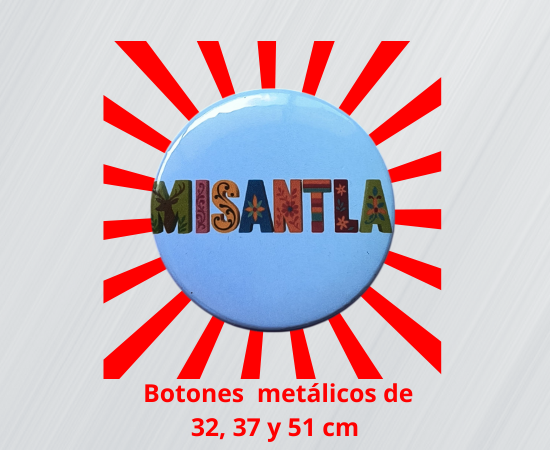
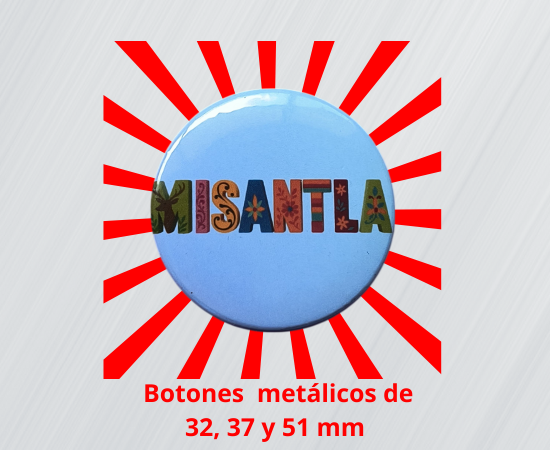
ok

Changed region(s): [[0.34, 0.9022, 0.68, 0.9956]]

diff --git a/Merchandinsing.html b/Merchandinsing.html
@@ -73,7 +73,7 @@
                     <div class="collapse navbar-collapse bg-transparent" id="navbarCollapse">
                         <div class="navbar-nav ms-auto mx-xl-auto p-0">
                             <a href="index.html" class="nav-item nav-link active text-secondary">Inicio</a>
-                            <a href="Nosotros.html" class="nav-item nav-link">Nosotros</a>
+                            <a href="nosotros.html" class="nav-item nav-link">Nosotros</a>
                             <a href="Servicios.html" class="nav-item nav-link">Servicios</a>
                             <a href="Productos.html" class="nav-item nav-link">Productos</a>
                             <!--div class="nav-item dropdown">
@@ -87,7 +87,7 @@
                                     <a href="404.html" class="dropdown-item">404 Page</a>
                                 </div>
                             </div-->
-                            <a href="Contacto.html" class="nav-item nav-link">Contacto</a>
+                            <a href="contacto.html" class="nav-item nav-link">Contacto</a>
                         </div>
                     </div>
                     <div class="d-none d-xl-flex flex-shirink-0">
@@ -119,7 +119,7 @@
                 <h1 class="display-2 text-white mb-4 animated slideInDown">Merchandinsing</h1>
                 <nav aria-label="breadcrumb animated slideInDown">
                     <ol class="breadcrumb justify-content-center mb-0">
-                        <li class="breadcrumb-item"><a href="Index.html">Inicio</a></li>
+                        <li class="breadcrumb-item"><a href="index.html">Inicio</a></li>
                         <li class="breadcrumb-item"><a href="Productos.html">Productos</a></li>
                         <li class="breadcrumb-item"><a href="#">Merchandinsing</a></li>
                         <!--li class="breadcrumb-item" aria-current="page"></li-->
@@ -365,7 +365,7 @@
                                 <div class="project-content">
                                     <a  href="#" class="text-center">
                                         <h4 class="text-secondary">Boton metálico</h4>
-                                        <p class="m-0 text-white">32, 37 y 51 cm</p>
+                                        <p class="m-0 text-white">32, 37 y 51 mm</p>
                                     </a>
                                 </div>
                             </div>

diff --git a/DiseñoGrafico.html b/DiseñoGrafico.html
@@ -73,7 +73,7 @@
                     <div class="collapse navbar-collapse bg-transparent" id="navbarCollapse">
                         <div class="navbar-nav ms-auto mx-xl-auto p-0">
                             <a href="index.html" class="nav-item nav-link active text-secondary">Inicio</a>
-                            <a href="Nosotros.html" class="nav-item nav-link">Nosotros</a>
+                            <a href="nosotros.html" class="nav-item nav-link">Nosotros</a>
                             <a href="Servicios.html" class="nav-item nav-link">Servicios</a>
                             <a href="Productos.html" class="nav-item nav-link">Productos</a>
                             <!--div class="nav-item dropdown">
@@ -87,7 +87,7 @@
                                     <a href="404.html" class="dropdown-item">404 Page</a>
                                 </div>
                             </div-->
-                            <a href="Contacto.html" class="nav-item nav-link">Contacto</a>
+                            <a href="contacto.html" class="nav-item nav-link">Contacto</a>
                         </div>
                     </div>
                     <div class="d-none d-xl-flex flex-shirink-0">
@@ -119,7 +119,7 @@
                         <h1 class="display-2 text-white mb-4 animated slideInDown">Diseño Gráfico</h1>
                         <nav aria-label="breadcrumb animated slideInDown">
                             <ol class="breadcrumb justify-content-center mb-0">
-                                <li class="breadcrumb-item"><a href="Index.html">Inicio</a></li>
+                                <li class="breadcrumb-item"><a href="index.html">Inicio</a></li>
                                 <li class="breadcrumb-item"><a href="Servicios.html">Servicios</a></li>
                                 <li class="breadcrumb-item"><a href="#">Diseño Gráfico</a></li>
                                 <!--li class="breadcrumb-item" aria-current="page"></li-->

diff --git a/IdentidadCorporativa.html b/IdentidadCorporativa.html
@@ -73,7 +73,7 @@
                     <div class="collapse navbar-collapse bg-transparent" id="navbarCollapse">
                         <div class="navbar-nav ms-auto mx-xl-auto p-0">
                             <a href="index.html" class="nav-item nav-link active text-secondary">Inicio</a>
-                            <a href="Nosotros.html" class="nav-item nav-link">Nosotros</a>
+                            <a href="nosotros.html" class="nav-item nav-link">Nosotros</a>
                             <a href="Servicios.html" class="nav-item nav-link">Servicios</a>
                             <a href="Productos.html" class="nav-item nav-link">Productos</a>
                             <!--div class="nav-item dropdown">
@@ -87,7 +87,7 @@
                                     <a href="404.html" class="dropdown-item">404 Page</a>
                                 </div>
                             </div-->
-                            <a href="Contacto.html" class="nav-item nav-link">Contacto</a>
+                            <a href="contacto.html" class="nav-item nav-link">Contacto</a>
                         </div>
                     </div>
                     <div class="d-none d-xl-flex flex-shirink-0">
@@ -119,7 +119,7 @@
                 <h1 class="display-2 text-white mb-4 animated slideInDown">Identidad Corporativa</h1>
                 <nav aria-label="breadcrumb animated slideInDown">
                     <ol class="breadcrumb justify-content-center mb-0">
-                        <li class="breadcrumb-item"><a href="Index.html">Inicio</a></li>
+                        <li class="breadcrumb-item"><a href="index.html">Inicio</a></li>
                         <li class="breadcrumb-item"><a href="Servicios.html">Servicios</a></li>
                         <li class="breadcrumb-item"><a href="#">Identidad Corporativa</a></li>
                         <!--li class="breadcrumb-item" aria-current="page">Identidad Corporativa</li-->

diff --git a/SocialMedia.html b/SocialMedia.html
@@ -73,7 +73,7 @@
                     <div class="collapse navbar-collapse bg-transparent" id="navbarCollapse">
                         <div class="navbar-nav ms-auto mx-xl-auto p-0">
                             <a href="index.html" class="nav-item nav-link active text-secondary">Inicio</a>
-                            <a href="Nosotros.html" class="nav-item nav-link">Nosotros</a>
+                            <a href="nosotros.html" class="nav-item nav-link">Nosotros</a>
                             <a href="Servicios.html" class="nav-item nav-link">Servicios</a>
                             <a href="Productos.html" class="nav-item nav-link">Productos</a>
                             <!--div class="nav-item dropdown">
@@ -87,7 +87,7 @@
                                     <a href="404.html" class="dropdown-item">404 Page</a>
                                 </div>
                             </div-->
-                            <a href="Contacto.html" class="nav-item nav-link">Contacto</a>
+                            <a href="contacto.html" class="nav-item nav-link">Contacto</a>
                         </div>
                     </div>
                     <div class="d-none d-xl-flex flex-shirink-0">
@@ -119,7 +119,7 @@
                 <h1 class="display-2 text-white mb-4 animated slideInDown">Gestión de Redes Sociales</h1>
                 <nav aria-label="breadcrumb animated slideInDown">
                     <ol class="breadcrumb justify-content-center mb-0">
-                        <li class="breadcrumb-item"><a href="Index.html">Inicio</a></li>
+                        <li class="breadcrumb-item"><a href="index.html">Inicio</a></li>
                         <li class="breadcrumb-item"><a href="Servicios.html">Servicios</a></li>
                         <li class="breadcrumb-item"><a href="#">Gestión de Redes Sociales</a></li>
                         <!--li class="breadcrumb-item" aria-current="page"></li-->

diff --git a/CreaciónContenido.html b/CreaciónContenido.html
@@ -73,7 +73,7 @@
                     <div class="collapse navbar-collapse bg-transparent" id="navbarCollapse">
                         <div class="navbar-nav ms-auto mx-xl-auto p-0">
                             <a href="index.html" class="nav-item nav-link active text-secondary">Inicio</a>
-                            <a href="Nosotros.html" class="nav-item nav-link">Nosotros</a>
+                            <a href="nosotros.html" class="nav-item nav-link">Nosotros</a>
                             <a href="Servicios.html" class="nav-item nav-link">Servicios</a>
                             <a href="Productos.html" class="nav-item nav-link">Productos</a>
                             <!--div class="nav-item dropdown">
@@ -87,7 +87,7 @@
                                     <a href="404.html" class="dropdown-item">404 Page</a>
                                 </div>
                             </div-->
-                            <a href="Contacto.html" class="nav-item nav-link">Contacto</a>
+                            <a href="contacto.html" class="nav-item nav-link">Contacto</a>
                         </div>
                     </div>
                     <div class="d-none d-xl-flex flex-shirink-0">
@@ -119,7 +119,7 @@
                 <h1 class="display-2 text-white mb-4 animated slideInDown">Creación de Contenido</h1>
                 <nav aria-label="breadcrumb animated slideInDown">
                     <ol class="breadcrumb justify-content-center mb-0">
-                        <li class="breadcrumb-item"><a href="Index.html">Inicio</a></li>
+                        <li class="breadcrumb-item"><a href="index.html">Inicio</a></li>
                         <li class="breadcrumb-item"><a href="Servicios.html">Servicios</a></li>
                         <li class="breadcrumb-item"><a href="#">Creación de Contenido</a></li>
                         <!--li class="breadcrumb-item" aria-current="page"></li-->

diff --git a/Etiquetado.html b/Etiquetado.html
@@ -73,7 +73,7 @@
                     <div class="collapse navbar-collapse bg-transparent" id="navbarCollapse">
                         <div class="navbar-nav ms-auto mx-xl-auto p-0">
                             <a href="index.html" class="nav-item nav-link active text-secondary">Inicio</a>
-                            <a href="Nosotros.html" class="nav-item nav-link">Nosotros</a>
+                            <a href="nosotros.html" class="nav-item nav-link">Nosotros</a>
                             <a href="Servicios.html" class="nav-item nav-link">Servicios</a>
                             <a href="Productos.html" class="nav-item nav-link">Productos</a>
                             <!--div class="nav-item dropdown">
@@ -87,7 +87,7 @@
                                     <a href="404.html" class="dropdown-item">404 Page</a>
                                 </div>
                             </div-->
-                            <a href="Contacto.html" class="nav-item nav-link">Contacto</a>
+                            <a href="contacto.html" class="nav-item nav-link">Contacto</a>
                         </div>
                     </div>
                     <div class="d-none d-xl-flex flex-shirink-0">
@@ -119,7 +119,7 @@
                 <h1 class="display-2 text-white mb-4 animated slideInDown">Etiquetas & Stickers</h1>
                 <nav aria-label="breadcrumb animated slideInDown">
                     <ol class="breadcrumb justify-content-center mb-0">
-                        <li class="breadcrumb-item"><a href="Index.html">Inicio</a></li>
+                        <li class="breadcrumb-item"><a href="index.html">Inicio</a></li>
                         <li class="breadcrumb-item"><a href="Productos.html">Productos</a></li>
                         <li class="breadcrumb-item"><a href="#">Etiquetas & Stickers</a></li>
                         <!--li class="breadcrumb-item" aria-current="page"></li-->

diff --git a/PapeleriaEjecutiva.html b/PapeleriaEjecutiva.html
@@ -73,7 +73,7 @@
                     <div class="collapse navbar-collapse bg-transparent" id="navbarCollapse">
                         <div class="navbar-nav ms-auto mx-xl-auto p-0">
                             <a href="index.html" class="nav-item nav-link active text-secondary">Inicio</a>
-                            <a href="Nosotros.html" class="nav-item nav-link">Nosotros</a>
+                            <a href="nosotros.html" class="nav-item nav-link">Nosotros</a>
                             <a href="Servicios.html" class="nav-item nav-link">Servicios</a>
                             <a href="Productos.html" class="nav-item nav-link">Productos</a>
                             <!--div class="nav-item dropdown">
@@ -87,7 +87,7 @@
                                     <a href="404.html" class="dropdown-item">404 Page</a>
                                 </div>
                             </div-->
-                            <a href="Contacto.html" class="nav-item nav-link">Contacto</a>
+                            <a href="contacto.html" class="nav-item nav-link">Contacto</a>
                         </div>
                     </div>
                     <div class="d-none d-xl-flex flex-shirink-0">
@@ -119,7 +119,7 @@
                 <h1 class="display-2 text-white mb-4 animated slideInDown">Papelería Ejecutiva</h1>
                 <nav aria-label="breadcrumb animated slideInDown">
                     <ol class="breadcrumb justify-content-center mb-0">
-                        <li class="breadcrumb-item"><a href="Index.html">Inicio</a></li>
+                        <li class="breadcrumb-item"><a href="index.html">Inicio</a></li>
                         <li class="breadcrumb-item"><a href="Productos.html">Productos</a></li>
                         <li class="breadcrumb-item"><a href="#">Papelería Ejecutiva</a></li>
                         <!--li class="breadcrumb-item" aria-current="page"></li-->

diff --git a/DiseñoWeb.html b/DiseñoWeb.html
@@ -73,7 +73,7 @@
                     <div class="collapse navbar-collapse bg-transparent" id="navbarCollapse">
                         <div class="navbar-nav ms-auto mx-xl-auto p-0">
                             <a href="index.html" class="nav-item nav-link active text-secondary">Inicio</a>
-                            <a href="Nosotros.html" class="nav-item nav-link">Nosotros</a>
+                            <a href="nosotros.html" class="nav-item nav-link">Nosotros</a>
                             <a href="Servicios.html" class="nav-item nav-link">Servicios</a>
                             <a href="Productos.html" class="nav-item nav-link">Productos</a>
                             <!--div class="nav-item dropdown">
@@ -87,7 +87,7 @@
                                     <a href="404.html" class="dropdown-item">404 Page</a>
                                 </div>
                             </div-->
-                            <a href="Contacto.html" class="nav-item nav-link">Contacto</a>
+                            <a href="contacto.html" class="nav-item nav-link">Contacto</a>
                         </div>
                     </div>
                     <div class="d-none d-xl-flex flex-shirink-0">
@@ -119,7 +119,7 @@
                 <h1 class="display-2 text-white mb-4 animated slideInDown">Diseño Web</h1>
                 <nav aria-label="breadcrumb animated slideInDown">
                     <ol class="breadcrumb justify-content-center mb-0">
-                        <li class="breadcrumb-item"><a href="Index.html">Inicio</a></li>
+                        <li class="breadcrumb-item"><a href="index.html">Inicio</a></li>
                         <li class="breadcrumb-item"><a href="Servicios.html">Servicios</a></li>
                         <li class="breadcrumb-item"><a href="#">Diseño Web</a></li>
                         <!--li class="breadcrumb-item" aria-current="page"></a></li-->

diff --git a/GranFormato.html b/GranFormato.html
@@ -73,7 +73,7 @@
                     <div class="collapse navbar-collapse bg-transparent" id="navbarCollapse">
                         <div class="navbar-nav ms-auto mx-xl-auto p-0">
                             <a href="index.html" class="nav-item nav-link active text-secondary">Inicio</a>
-                            <a href="Nosotros.html" class="nav-item nav-link">Nosotros</a>
+                            <a href="nosotros.html" class="nav-item nav-link">Nosotros</a>
                             <a href="Servicios.html" class="nav-item nav-link">Servicios</a>
                             <a href="Productos.html" class="nav-item nav-link">Productos</a>
                             <!--div class="nav-item dropdown">
@@ -87,7 +87,7 @@
                                     <a href="404.html" class="dropdown-item">404 Page</a>
                                 </div>
                             </div-->
-                            <a href="Contacto.html" class="nav-item nav-link">Contacto</a>
+                            <a href="contacto.html" class="nav-item nav-link">Contacto</a>
                         </div>
                     </div>
                     <div class="d-none d-xl-flex flex-shirink-0">
@@ -119,7 +119,7 @@
                 <h1 class="display-2 text-white mb-4 animated slideInDown">Gran Formato</h1>
                 <nav aria-label="breadcrumb animated slideInDown">
                     <ol class="breadcrumb justify-content-center mb-0">
-                        <li class="breadcrumb-item"><a href="Index.html">Inicio</a></li>
+                        <li class="breadcrumb-item"><a href="index.html">Inicio</a></li>
                         <li class="breadcrumb-item"><a href="Productos.html">Productos</a></li>
                         <li class="breadcrumb-item"><a href="#">Gran Formato</a></li>
                         <!--li class="breadcrumb-item" aria-current="page"></li-->

diff --git a/nosotros.html b/nosotros.html
@@ -73,7 +73,7 @@
                     <div class="collapse navbar-collapse bg-transparent" id="navbarCollapse">
                         <div class="navbar-nav ms-auto mx-xl-auto p-0">
                             <a href="index.html" class="nav-item nav-link">Inicio</a>
-                            <a href="Nosotros.html" class="nav-item nav-link active">Nosotros</a>
+                            <a href="nosotros.html" class="nav-item nav-link active">Nosotros</a>
                             <a href="Servicios.html" class="nav-item nav-link">Servicios</a>
                             <a href="Productos.html" class="nav-item nav-link">Productos</a>
                             <!--div class="nav-item dropdown">

diff --git a/Productos.html b/Productos.html
@@ -73,7 +73,7 @@
                     <div class="collapse navbar-collapse bg-transparent" id="navbarCollapse">
                         <div class="navbar-nav ms-auto mx-xl-auto p-0">
                             <a href="index.html" class="nav-item nav-link">Inicio</a>
-                            <a href="Nosotros.html" class="nav-item nav-link">Nosotros</a>
+                            <a href="nosotros.html" class="nav-item nav-link">Nosotros</a>
                             <a href="Servicios.html" class="nav-item nav-link">Servicios</a>
                             <a href="Productos.html" class="nav-item nav-link active">Productos</a>
                             <!--div class="nav-item dropdown">

diff --git a/Servicios.html b/Servicios.html
@@ -73,7 +73,7 @@
                     <div class="collapse navbar-collapse bg-transparent" id="navbarCollapse">
                         <div class="navbar-nav ms-auto mx-xl-auto p-0">
                             <a href="index.html" class="nav-item nav-link">Inicio</a>
-                            <a href="Nosotros.html" class="nav-item nav-link">Nosotros</a>
+                            <a href="nosotros.html" class="nav-item nav-link">Nosotros</a>
                             <a href="Servicios.html" class="nav-item nav-link active">Servicios</a>
                             <a href="Productos.html" class="nav-item nav-link">Productos</a>
                             <!--div class="nav-item dropdown">
